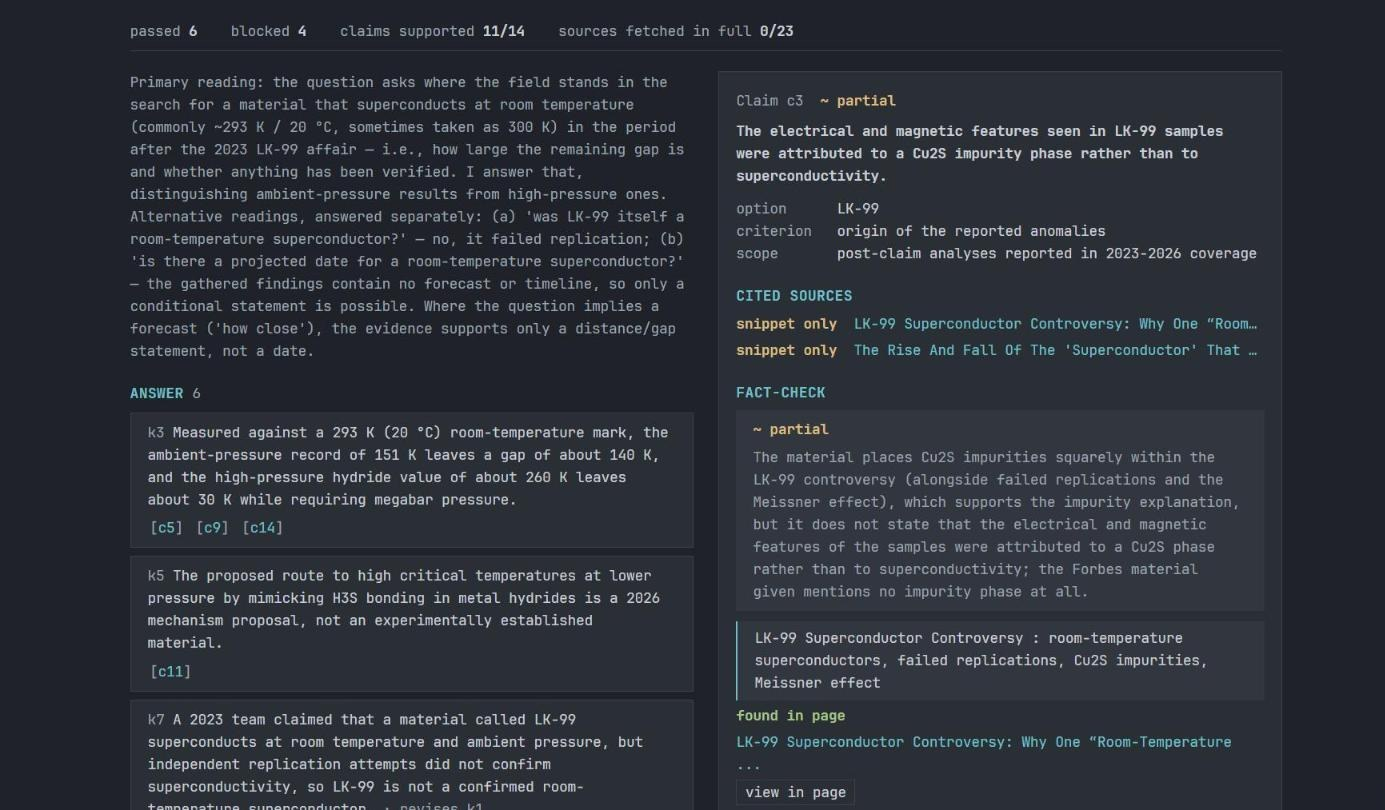
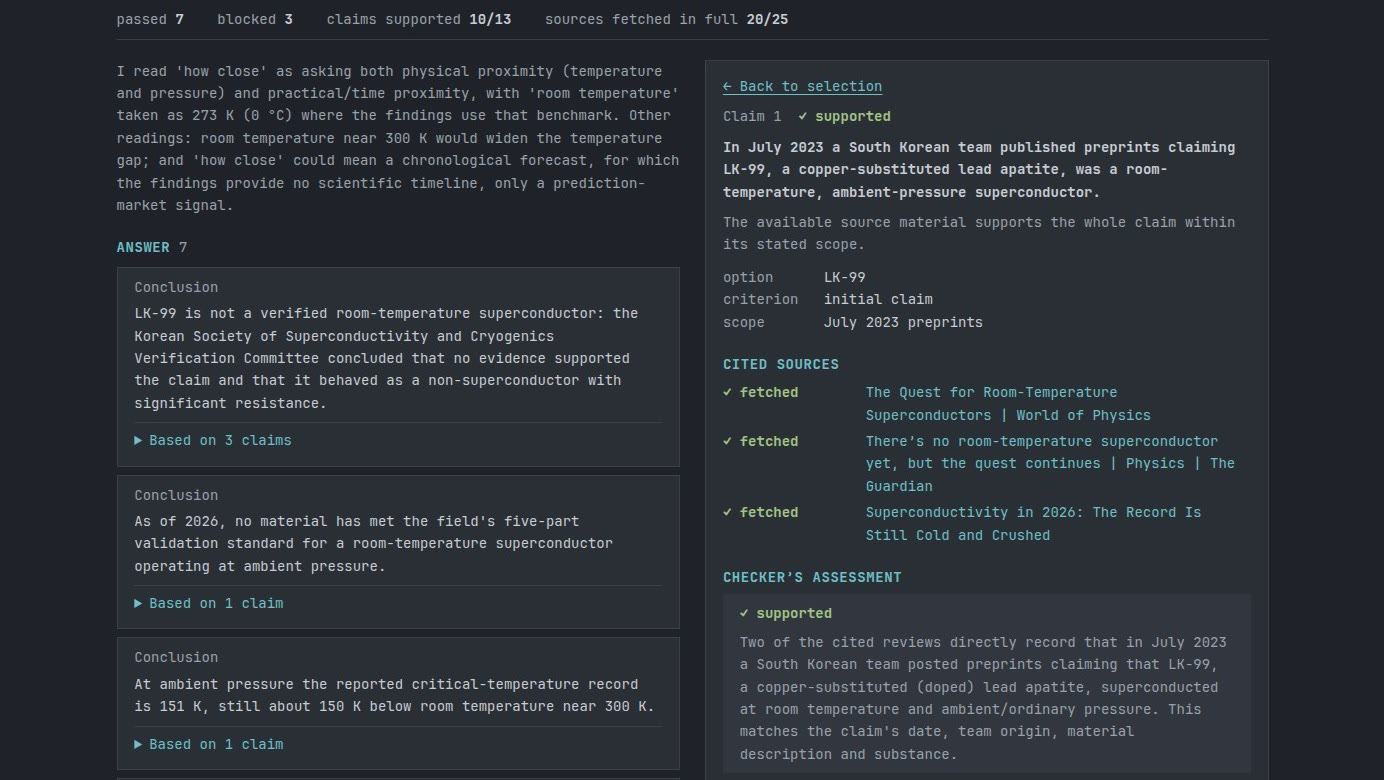
Re-record the demo and the serve page's screenshots
They showed the interface before the settings work: the page's form and
plan review with depth buttons only, the brief without its follow-ups
field or the planner's scope, and a run started with -p rather than at
the start screen.

- demo.gif: a bare ./drsh session, captured and replayed as before
  (demo.tape replays it at 4x): the start screen's settings row, /mode
  quick, the question, the brief sizing it as a narrow question with two
  sub-topics, the research and its follow-up searches, the report. The
  tape's recapture notes describe the new session.
- docs/images: one standard run of the LK-99 question, from the plan
  review (the depth and follow-ups controls, "multi-part question") to the
  live frame, the report in the light theme and the audit with a claim
  inspected. The README's alt texts describe what each now shows.

Both runs were made from empty directories, so no earlier run appears in
the page's list or the session, and the top bar names only the model and
"searxng + firecrawl". The capture's script header and footer, which
carried a home path and a timezone and are never replayed, were scrubbed;
the images carry no metadata.

diff --git a/README.md b/README.md
@@ -17,7 +17,7 @@ it writes a cited report as Markdown, PDF and JSON.
 
 </div>
 
-![deep-research planning, researching, fact-checking and reporting on a question about mixture-of-experts LLMs](demo.gif)
+![drsh's start screen set to quick depth, then the brief sizing a question about mixture-of-experts LLMs to two sub-topics, the research with its follow-up searches, the fact-check and the report](demo.gif)
 
 By default it costs nothing: OpenRouter's free models and public SearXNG
 search, so a free key is all it needs. Every source says how it was obtained,
@@ -123,22 +123,22 @@ dark theme. Type the question and pick the same settings the terminal offers,
 then edit the plan before anything is searched: rename, add or remove
 sub-topics, change the search each one runs, the depth and the follow-ups:
 
-![The serve page's plan review for "How close are we to a room-temperature superconductor after LK-99?": four sub-topics, each with the search it will run](docs/images/web-plan.jpg)
+![The serve page's plan review for "How close are we to a room-temperature superconductor after LK-99?": the depth and follow-up settings, and four sub-topics for what the planner read as a multi-part question, each with the search it will run](docs/images/web-plan.jpg)
 
 The live frame shows each sub-agent with its sources, the follow-up searches,
 and the model's reasoning as it streams:
 
-![The live frame mid-analysis: Plan and Research done, seven sub-agents complete including three follow-ups, and the model's reasoning streaming above them](docs/images/web-live.jpg)
+![The live frame mid-analysis: Plan and Research done, seven sub-agents complete including three follow-ups, and the model thinking through the analysis](docs/images/web-live.jpg)
 
 When the run ends, the report opens below it, with the `.md`, `.pdf` and
 `.json` downloads in the header (here in the light theme):
 
-![A finished run in the light theme for "Have the Voyager probes really left the solar system?": every phase done, md, pdf and json downloads in the header, and the answer opening on the two readings of "left the solar system"](docs/images/web-report.jpg)
+![The same run finished, in the light theme: every phase done, md, pdf and json downloads in the header, and the answer opening on LK-99 failing verification](docs/images/web-report.jpg)
 
 The audit shows what the fact-check decided: the statements that passed or
 were blocked, every claim's verdict, and the quote and page each rests on:
 
-![The audit view: statements passed and blocked, and the inspector showing a claim about LK-99's Cu2S impurity rated partial, with the checker's reason and the quote it located](docs/images/web-audit.jpg)
+![The audit view: statements passed and blocked, the question as the analysis read it, and the inspector showing a supported claim about the July 2023 LK-99 preprints, with its fetched sources and the checker's assessment](docs/images/web-audit.jpg)
 
 ## Search
 
